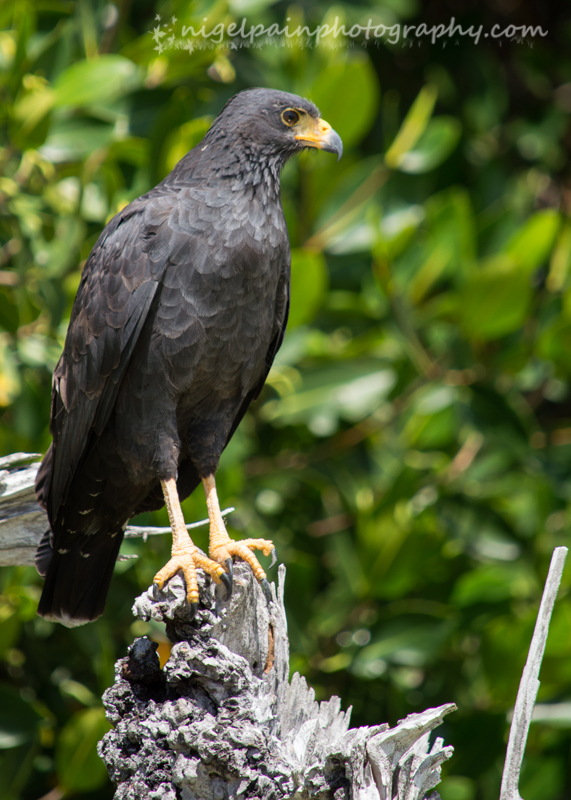
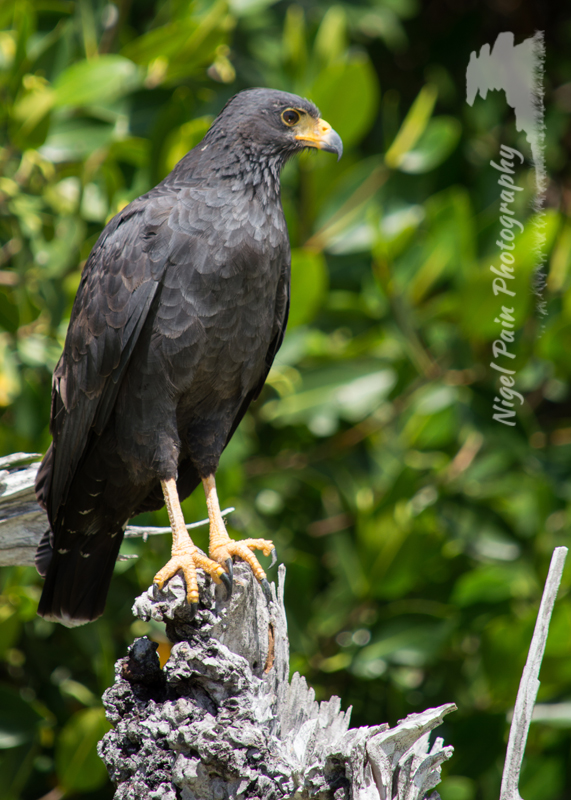
added new landscape photo and applied new watermark to old photos

Changed region(s): [[0.268, 0.0312, 0.9527, 0.5312]]

diff --git a/gallery/landscapes.html b/gallery/landscapes.html
@@ -24,6 +24,13 @@
         <div class="grid_12">
           <h1 id="pageHeader">Landscape Gallery</h1>
         </div>
+
+        <div class="galleryThumb grid_3">
+            <a href="../images/gallery/landscapes/Devils Cauldron (website).jpg" rel="lightbox" data-lightbox="wildlife" title="The power of water is very much apparent at the 'Devils Cauldron' in Lydford Gorge, a whirling torrent of nature, anyone unlucky enough to slip on their way down really would be 'dead meat for the Devils Cauldron'">
+              <img class="imageThumb" src="../images/gallery/landscapes/Devils Cauldron (website).jpg" alt="An image of the devils cauldron section of lydford gorge" title="Devils Cauldron" />
+            </a>
+            <p>Devils Cauldron</p>
+        </div><!-- galleryThumb -->
       </div><!-- page -->
 
       <!-- lightbox js code -->

diff --git a/gallery/index.html b/gallery/index.html
@@ -39,7 +39,7 @@
 
         <div class="galleryThumb grid_3">
             <a href="landscapes.html">
-              <img class="imageThumb" src="" alt="" title=""/>
+              <img class="imageThumb" src="../images/gallery/landscapes/Devils Cauldron (website).jpg" alt="An image of the devils cauldron section of lydford gorge" title="Devils Cauldron"/>
             </a>
             <p>Landscapes</p>
         </div><!-- galleryThumb -->
